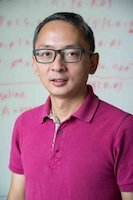
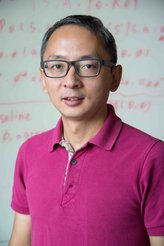
size

diff --git a/_sections/teachers.html b/_sections/teachers.html
@@ -5,8 +5,8 @@ order: 3
 ---
 
 
-<span class="image left"><img src="{{ 'assets/images/rsz_junwang.jpg' | relative_url }}" height="200" width="150" alt="teacher1" /></span>
+<span class="image left"><img src="{{ 'assets/images/rsz_junwang.jpg' | relative_url }}" height="300" alt="teacher1" /></span>
 <p style="text-align:justify; text-justify:inter-ideograph;"><b>汪军</b><br />伦敦大学学院（UCL）计算机科学系教授、华为诺亚方舟实验室决策智能首席导师，主要研究领域是AI和智能系统，包括（多智能体）强化学习、深度生成模型及其在信息检索、推荐系统、个性化、数据挖掘、智慧城市、机器人规划、计算广告等领域的应用。他拥有超过15年的行业咨询和知识转让咨询经验，曾是Last.Fm、Passiv Systems、Massive Analytic、Context Scout和Polecat等初创公司的技术顾问，并曾与BT、Microsoft、Yahoo !、阿里巴巴、Didi等合作过多个项目。汪军教授分别在荷兰代尔夫特理工大学、新加坡国立大学、东南大学（中国南京）获得博士学位、硕士学位、学士学位。</p>
 
-<span class="image left"><img src="{{ 'assets/images/haifengzhang.jpg' | relative_url }}" width="150" height="200" alt="teacher2" /></span>
+<span class="image left"><img src="{{ 'assets/images/haifengzhang.jpg' | relative_url }}" height="300" alt="teacher2" /></span>
 <p style="text-align:justify; text-justify:inter-ideograph;"><b>张海峰</b><br />中国科学院自动化研究所（CASIA）副研究员、硕士生导师，研究领域包括多智能体强化学习、游戏AI和计算广告等。在加入CASIA之前，他曾担任北京大学计算机研究前沿中心（CFCS）访问学者和伦敦大学学院（UCL）博士后，并分别于2018年和2012年在北京大学获得计算机博士学位和计算机、经济学双学士学位。</p>
